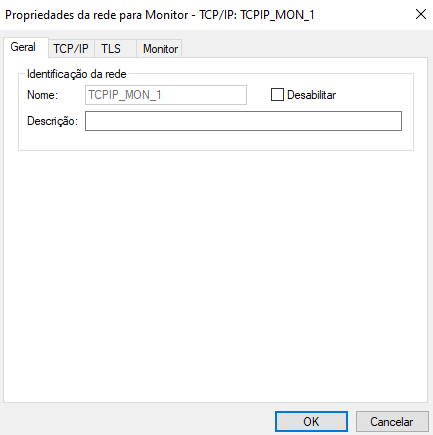
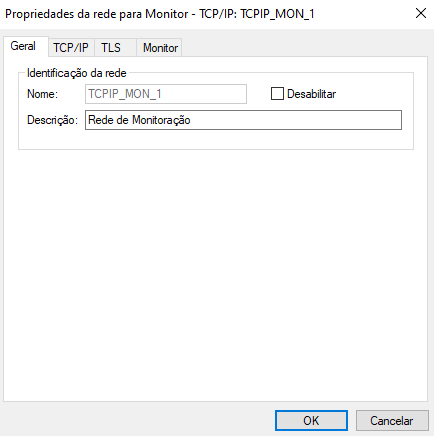
MOD atualizacao e organizacao do stcpserver

diff --git a/content/stcpserver/03-configuracao.md b/content/stcpserver/03-configuracao.md
@@ -15,7 +15,7 @@ draft: false
 
 O programa de configuração do STCP OFTP Server foi instalado na pasta selecionada durante o processo de instalação e pode ser acessado através do menu **Iniciar**. Caso você não tenha alterado a pasta padrão, execute os seguintes passos:
 
-{{< icon "arrow-right-circle" >}} No menu **Iniciar**, **Todos os Programas**, selecione **Riversoft STCP Server Client**.
+{{< icon "arrow-right-circle" >}} No menu **Iniciar** pesquise por **Riversoft STCP OFTP Server Config**.
 
 ![](img/server-config.png)
 
@@ -39,12 +39,9 @@ O programa de configuração pode ser acessado também na pasta **Program** da a
 
 ## Informações gerais
 
-Na guia **Geral** preencha os campos com as informações descritas abaixo.
+Na guia **Geral** preencha os campos com as informações de identificação descritas abaixo.
 
 ![](img/guia-geral.png)
-
-> [!WARNING] Atenção
-> <span style="color:red;">*</span> Parâmetros obrigatórios
 
 | Campos                | Descrição                                                                                                                                                                                                                                                      |
 | :-------------------- | :------------------------------------------------------------------------------------------------------------------------------------------------------------------------------------------------------------------------------------------------------------- |
@@ -56,7 +53,10 @@ Na guia **Geral** preencha os campos com as informações descritas abaixo.
 | Confirmar             | Preencha este campo com a senha do usuário para ser validada.                                                                                                                                                                                                  |
 | Diretório de controle | Este campo informa o nome do diretório de instalação do STCP OFTP Server onde serão armazenadas as configurações dos usuários, logs e arquivos de depuração da comunicação. <br> Obs.: Para a versão STCP OFTP Server, este parâmetro não pode ser modificado. |
 | Diretório de dados    | Preencha este campo com o diretório, onde a estrutura de subdiretórios para envio e recepção dos arquivos de cada usuário deverá ser criada.  <br> Obs.: Esta configuração deve ser alterada antes da criação dos usuários.                                    |
-| Número de série*      | Preencha este campo com o número de série que é disponibilizado. <br>                                                                                                                                                                                          |
+| Número de série*      | Preencha este campo com o número de série que é disponibilizado pela Riversoft. <br>                                                                                                                                                                                          |
+
+> [!WARNING] Atenção
+> <span style="color:red;">*</span> Parâmetros obrigatórios
 ----
 
 
@@ -79,15 +79,15 @@ Nesta guia, você poderá adicionar, remover ou modificar os parâmetros das int
 | Protocolo                   | Descrição                                                                                                                                                                                                                                 |
 | :-------------------------- | :---------------------------------------------------------------------------------------------------------------------------------------------------------------------------------------------------------------------------------------- |
 | OFTP - TCP/IP               | Configura o STCP OFTP Server para utilizar o protocolo de comunicação TCP/IP.                                                                                                                                                             |
-| API DirectLink - HTTP/S     | Configura o STCP Server para comunicar com com a API do Directlink. <br>  <a href="/stcpdirectlink/api/" target="_blank">Acesse a seção de API do Directlink para mais informações</a> {{< icon "arrow-top-right-on-square" >}} &nbsp; |
-| SFTP DirectLink – TCP/IP    | Configura o STCP Server para se comunicar via protocolo SFTP com o Directlink.                                                                                                                                                            |
+| API DirectLink - HTTP/S     | Configura o STCP Server para comunicar com com a API do DirectLink. <br>  <a href="/stcpDirectLink/api/" target="_blank">Acesse a seção de API do DirectLink para mais informações</a> {{< icon "arrow-top-right-on-square" >}} &nbsp; |
+| SFTP DirectLink – TCP/IP    | Configura o STCP Server para se comunicar via protocolo SFTP com o DirectLink.                                                                                                                                                            |
 | Monitor – TCP/IP            | Habilita a rede para supervisão do STCP através do protocolo TCP/IP.                                                                                                                                                                      |
-| Monitor Directlink - TCP/IP | Habilita a rede para supervisão do Directlink através do protocolo TCP/IP.                                                                                                                                                                |
+| Monitor DirectLink - TCP/IP | Habilita a rede para supervisão do DirectLink através do protocolo TCP/IP.                                                                                                                                                                |
 ----
 
 ### Configurar uma porta TLS
 
-{{< icon "arrow-right-circle" >}}Acesse o configurador da aplicação: **Riversoft STCP OFTP Server Config**.
+{{< icon "arrow-right-circle" >}}Acesse o configurador do STCP Server: **Riversoft STCP OFTP Server Config**.
 
 {{< icon "arrow-right-circle" >}}Acesse a guia **Redes** para adicionar as interfaces que ficarão disponíveis para o serviço de transferência e adicione uma interface do serviço de transferência.
 
@@ -99,6 +99,10 @@ Nesta guia, você poderá adicionar, remover ou modificar os parâmetros das int
 
 ![](img/protocolo-oftp.png)
 
+{{< icon "arrow-right-circle" >}}Preencha as informações na guia **Geral** antes de prosseguir.
+
+![](img/guia-geral-porta-tls.png)
+
 {{< icon "arrow-right-circle" >}}Clique na guia **TCP/IP** e configure os parâmetros apresentados.
 
 ![](img/tcp-ip-redes.png)
@@ -107,7 +111,7 @@ Nesta guia, você poderá adicionar, remover ou modificar os parâmetros das int
 
 ![](img/tcp-odette-redes.png)
 
-{{< icon "arrow-right-circle" >}}Clique na guia **TLS**, configure os parâmetros apresentados abaixo e pressione o botão **OK** para finalizar.
+{{< icon "arrow-right-circle" >}}Agora, na guia **TLS**, configure os parâmetros apresentados abaixo e pressione o botão **OK** para finalizar.
 
 ![](img/redes-guia-tls.png)
 
@@ -121,13 +125,13 @@ Os seguintes procedimentos devem ser executados para a geração da chave privat
 
 {{< icon "arrow-right-circle" >}}Utilize o comando abaixo para gerar a chave privativa que será utilizada para criptografia da conexão.
 
-```pshell
+```shell
 genrsa -out[unidade_disco][diretorio_instalação_stcp]\keys\[nome_da_chave].key 1024
 ```
 
 Exemplo:
 
-```pshell
+```shell
 genrsa –out c:\stcpodt\keys\stcp_abcde.key 1024
 ```
 
@@ -135,7 +139,7 @@ genrsa –out c:\stcpodt\keys\stcp_abcde.key 1024
 
 {{< icon "arrow-right-circle" >}}O próximo passo é gerar o Certificado Digital associado à chave gerada anteriormente. Para isso, utilize o comando abaixo.
 
-```pshell
+```shell
 req –new –x509 –key [unidade_disco][diretório_instalação_stcp]\keys\[nome_da_chave].key –out [unidade_disco][diretório_instalação_stcp]\certs\[nome_do_certificado].cer –days 1825 –config ./openssl.cnf
 ```
 
@@ -224,7 +228,7 @@ req –new –x509 –key c:\stcpodt\keys\stcp_interprint.key –out c:\stcpodt\
 
 Em alguns casos, para se obter uma análise mais detalhada de problemas relacionados ao intercâmbio de arquivos, torna-se necessária a depuração dos processos de conexão e transferência, realizadas pelo *STCP OFTP Server*.
 
-Através da configuração do parâmetro *Nível de debug* é possível gerar um arquivo de depuração na pasta DEBUG (Ex. C:\STCPCLT\Debug) do diretório de instalação do STCP.
+Através da configuração do parâmetro *Nível de debug* é possível gerar um arquivo de depuração na pasta DEBUG (Ex. C:\STCPODT\Debug) do diretório de instalação do STCP.
 
 Acesse o STCP OFTP Server Config (Iniciar – Todos os programas – Riversoft STCP OFTP Server). Selecione o usuário desejado na guia Usuários e clique no botão Propriedades Na janela Propriedades do usuário, na guia do protocolo utilizado (Odette, SFTP, FTP, HTTP) altere o valor do campo "Nível de debug" para 63 (outros valores podem ser utilizados – vide Tabela abaixo). 
 
@@ -289,8 +293,49 @@ A tabela a seguir contém a relação entre o nível de detalhamento e as inform
 | Algoritmos                   | Preencha este campo com os nomes dos algoritmos suportados para assinatura digital, hashing e criptografia dos dados. <br> Obs.: Caso este campo não seja configurado, o protocolo TLS será selecionado automaticamente.                                                                                  |
 | Debug                        | Esta opção permite gerar um arquivo de depuração na pasta Debug do diretório de instalação do STCP.                                                                                                                                                                                                       |
 
-
 Pressione o botão **OK** para prosseguir ou **Cancelar** para abandonar sem alterar as configurações.
+
+#### Configuração de Cipher Suites
+
+Para atender às necessidades de troca de informações com segurança através da internet, o STCP utiliza o protocolo TLS (Transport Layer Security), dando suporte à configuração de um conjunto de cifras (cipher suites) utilizados para garantir a autenticidade (Ex. Algoritmos RSA/ECDHE), confidencialidade (Ex. Algoritmos AES/AES128/AES256) e a integridade (Ex. Algoritmos SHA1/SHA256/SHA384).
+
+Os métodos e o conjunto de cifras utilizados devem ser definidos e ajustados com base nas políticas de segurança e preferências específicas da área de segurança de cada organização.
+
+> [!NOTE] Nota
+> A suíte de produtos Riversoft STCP está em constante atualização para cumprir com os mais recentes requisitos de segurança, assim como novas exigências no mercado de File-Transfer (EDI). Dessa forma, recomendamos também a atualização do produto.
+
+#### Atualização de bibliotecas
+
+a) Através do link enviado pela equipe de suporte da Riversoft, faça download do pacote de atualização do produto;
+b) Pare o serviço do STCP OFTP Server através do gerenciador de serviços do seu sistema operacional;
+c) Copie o conteúdo do arquivo compactado (ZIP) para a pasta Program do diretório de instalação do STCP OFTP Server (Ex. C:\STCPODT\Program), substituindo os arquivos atuais;
+d) Inicie ou reinicie o serviço do STCP OFTP Server através do gerenciador de serviços do sistema operacional;
+
+#### Configuração do Cipher Suítes
+
+a) Através do STCP OFTP Server Config (menu Iniciar – Todos os Programas – Riversoft STCP OFTP Server), na guia Redes, selecione a rede segura desejada (Ex. TCPIP_3) e clique no botão Propriedades;
+
+![](img/cipher-suites-01.png)
+
+b) Na janela Propriedades da rede, na guia SSL3/TLS (OpenSSL), será necessário alterar o parâmetro Algoritmos com o conjunto de cifras (cipher suite) escolhido (vide exemplo abaixo).
+
+**ECDHE-RSA-AES256-GCM-SHA384**
+
+![](img/cipher-suites-02.png)
+
+c) Reinicie o serviço do Riversoft STCP OFTP Server através do gerenciador de serviços do sistema operacional.
+
+#### Atualização da biblioteca apiossl.dll
+
+Em algumas situações, caso um cliente ou parceiro utilize uma versão do Riversoft STCP OFTP Client, anterior a 4.0.0-4061, o erro 10809 ou similar poderá ocorrer no momento da conexão.
+
+Nesse caso, também será necessária a atualização da biblioteca APIOSSL.DLL do lado dos clientes ou parceiros que utilizem o Riversoft STCP OFTP. Essa DLL está localizada na pasta Program do diretório de instalação do STCP OFTP Client (Ex. C:\STCPCLT\Program).
+
+a) Através do link enviado pela equipe de suporte da Riversoft, faça o download do pacote de atualização do produto;
+
+b) Copie o conteúdo do arquivo compactado (ZIP) para a pasta Program do diretório de instalação do STCP OFTP Client (Ex. C:\STCPCLT\Program), substituindo os arquivos atuais;
+
+c) Inicie uma nova conexão para validar a comunicação e troca de arquivos. 
 
 ### API DirectLink
 
@@ -349,8 +394,8 @@ Pressione o botão **OK** para prosseguir ou **Cancelar** para abandonar sem alt
 | Campos                      | Descrição                                                                                                 |
 | :-------------------------- | :-------------------------------------------------------------------------------------------------------- |
 | URL de acesso               | Preencha este campo com a URL de requisição.                                                              |
-| Estáticas                   | Preencha este campo com o diretório (caminho completo) onde se encontram páginas estáticas do Directlink. |
-| Templates                   | Preencha este campo com o diretório (caminho completo) onde se encontram os templates do Directlink.      |
+| Estáticas                   | Preencha este campo com o diretório (caminho completo) onde se encontram páginas estáticas do DirectLink. |
+| Templates                   | Preencha este campo com o diretório (caminho completo) onde se encontram os templates do DirectLink.      |
 | Versão TLS                  | Preencha estes campos com a versão mínima e máxima escolhida do TLS.                                      |
 | Headers Customizados (json) | Preencha este campo com os headers customizados no formato json.                                          |
 | Log requisições HTTP/S      | Preencha este campo com o nome do arquivo (caminho completo) onde se encontra o log das requisções https. |
@@ -418,9 +463,9 @@ Pressione o botão **OK** para prosseguir ou **Cancelar** para abandonar sem alt
 
 ### Rede de Monitoração - TCP/IP
 
-Na rede de monitoração, temos o [STCP Console](/stcpserver/utilizacao/#stcp-console), uma rede (Ex. **TCPIP_MON_1**) utilizando o protocolo _Monitor – TCP/IP_ deverá estar previamente criada e configurada, na guia _Redes_, do STCP OFTP Server.
+Na rede de monitoração, temos o [STCP Console](/stcpserver/guias/stcp-console/), uma rede (Ex: TCPIP_MON_1) utilizando o protocolo _Monitor – TCP/IP_ deverá estar previamente criada e configurada, na guia _Redes_, do STCP OFTP Server.
 
-Por padrão da aplicação, para este tipo de rede é utilizada a porta 33050, que poderá ser alterada conforme especificações e/ou características da infraestrutura utilizada.
+Por padrão da aplicação, para este tipo de rede é utilizada a porta **33050**, que poderá ser alterada conforme especificações e/ou características da infraestrutura utilizada.
 
 {{< icon "arrow-right-circle" >}}Acesse o STCP OFTP Server Config (Iniciar - Todos os programas - Riversoft STCP OFTP Server) e na guia _Redes_ clique no botão _Adicionar_ e selecione o protocolo _Monitor – TCP/IP_. Clique no botão _OK_ para confirmar.
 
@@ -430,11 +475,11 @@ Por padrão da aplicação, para este tipo de rede é utilizada a porta 33050, q
 
 ![](img/mon-02.png)
 
-{{< icon "arrow-right-circle" >}}Realize as configurações conforme imagem abaixo.
+{{< icon "arrow-right-circle" >}}Realize as suas configurações de TLS:
 
 ![](img/mon-03.png)
 
-{{< icon "arrow-right-circle" >}}Selecione a guia _Monitor_ e preencha os campos abaixo:
+{{< icon "arrow-right-circle" >}}Por fim, selecione a guia _Monitor_ e preencha os campos abaixo:
 
 ```{filename="Usuário de monitoração"}
 Usuário: stcpmon
@@ -452,74 +497,6 @@ Confirmar: stcpmon
 ![](img/mon-05.png)
 
 {{< icon "arrow-right-circle" >}}Após o reinício do serviço a rede de monitoração _TCPIP_MON_1_ já estará ativa.
-
-<!-- ### Monitor - TCP/IP
-
-{{< icon "arrow-right-circle" >}}Na guia **Geral**, configure as seguintes opções:
-
-![](img/monitor-01.png)
-
-| Campos      | Descrição                                                 |
-| :---------- | :-------------------------------------------------------- |
-| Nome        | Campo com o nome da interface de rede configurada.        |
-| Descrição   | Preencha este campo com a descrição da interface de rede. |
-| Desabilitar | Esta opção assinalada desabilita a interface de rede.     |
----
-
-{{< icon "arrow-right-circle" >}}Na guia **TCP/IP**, configure as seguintes opções:
-
-![](img/monitor-02.png)
-
-| Campos             | Descrição                                                                                                                                                                                                                                                                                                                                                                                             |
-| :----------------- | :---------------------------------------------------------------------------------------------------------------------------------------------------------------------------------------------------------------------------------------------------------------------------------------------------------------------------------------------------------------------------------------------------- |
-| Endereço IP        | Preencha este campo com o endereço TCP/IP ou nome (DNS) da interface local para a qual o serviço STCP OFTP Server deve ser disponibilizado. <br> Obs.: Utilize o endereço 0.0.0.0 para habilitar o serviço sobre todas as interfaces de rede.                                                                                                                                                         |
-| Porta IP           | Preencha este campo com a porta IP da interface local para a qual o serviço STCP OFTP Server deve ser disponibilizado. <br> Obs.: A porta padrão do serviço OFTP é a 3305.                                                                                                                                                                                                                            |
-| Comunicação Segura | Esta opção assinalada habilita a utilização de criptografia na comunicação com o servidor STCP OFTP Server, você pode escolher entre a opção Nativa ou TLS. <br> Obs.: Antes de habilitar esta opção, leia atentamente o capítulo sobre Segurança.                                                                                                                                                    |
-| TLS                | Configura a comunicação segura com criptografia e certificação digital, com a utilização da padronização definida na RFC2246 (TLS). O TLS é comumente encontrado nos servidores de sites seguros (HTTPS) e oferece o maior grau de segurança atualmente disponível. <br> Obs.: Antes de habilitar esta opção, confirme se o servidor com o qual você deseja se comunicar suporta esta característica. |
-| Compatibilidade    | Esta opção possibilita compatibilizar o STCP OFTP Server com diferentes produtos atualmente existentes no mercado.                                                                                                                                                                                                                                                                                    |
-| RFC2204            | Esta opção de compatibilidade permite a comunicação do STCP OFTP Server com outros produtos que seguem a recomendação RFC2204.                                                                                                                                                                                                                                                                        |
-| RFC1006/RFC1086    | Esta opção de compatibilidade permite a comunicação do STCP OFTP Server através de gateways de comunicação TCP-IP/X.25, que seguem a recomendação RFC1006/1086.                                                                                                                                                                                                                                       |
-| RVS*               | Esta opção de compatibilidade permite a comunicação do STCP OFTP Server com o produto RVS*. <br> Obs.: Esta opção não deve ser habilitada quando o servidor RVS* for uma versão do mainframe (grande porte).                                                                                                                                                                                          |
-| X.25/Router        | Esta opção de compatibilidade permite a comunicação do STCP OFTP Server através de roteadores com suporte à comunicação X.25 através de socket. <br> Obs.: Consulte a Riversoft sobre esta configuração se você estiver em dúvidas.                                                                                                                                                                   |
-| XFB*/SSL           | Habilita a compatibilidade do STCP com o XFB em conexões seguras SSL.                                                                                                                                                                                                                                                                                                                                 |
-| Compressão GZIP    | Esta opção assinalada habilita a utilização da compressão GZIP onthe-fly (durante a transferência).  <br> Obs.: Antes de habilitar esta opção, confirme se o servidor com o qual você deseja se comunicar suporta esta característica.                                                                                                                                                                |
-----
-
-> [!WARNING] Aviso: 
-> *As marcas citadas são propriedade dos seus respectivos donos.
-
-{{< icon "arrow-right-circle" >}}Na guia **TLS**, configure as seguintes opções:
-
-![](img/monitor-03.png)
-
-| Campos                       | Descrição                                                                                                                                                                                                                                                                                                 |
-| :--------------------------- | :-------------------------------------------------------------------------------------------------------------------------------------------------------------------------------------------------------------------------------------------------------------------------------------------------------- |
-| Chave Privativa              | As opções deste grupo estão relacionadas às chaves pública e privada utilizadas pelo protocolo TLS para autenticação e criptografia dos dados. <br> Obs.: O arquivo da chave privativa deve estar no formato PKCS#12 e os certificados, no formato DER ou PEM.                                            |
-| Chave                        | Preencha este campo com o nome do arquivo (caminho completo) onde se encontra instalada a chave privativa.                                                                                                                                                                                                |
-| Certificado                  | Preencha este campo com o nome do arquivo (caminho completo) onde se encontra instalado o certificado digital (X509) associado à chave privativa.                                                                                                                                                         |
-| Senha                        | Preencha este campo com a senha que protege o arquivo de chave privativa.                                                                                                                                                                                                                                 |
-| Confirmar                    | Preencha este campo com a senha informada no campo senha para validação.                                                                                                                                                                                                                                  |
-| Certificados CA (Autoridade) | As opções deste grupo estão relacionadas aos certificados digitais das autoridades certificadoras (CA) que servirão para validar a autenticidade do certificado apresentado pelo servidor. <br> Obs.: O arquivo da chave privativa deve estar no formato PKCS#12 e os certificados no formato DER ou PEM. |
-| Arquivo                      | Preencha este campo com o nome do arquivo (caminho completo) onde se encontra instalado o certificado digital (X509) contendo a chave pública que assina o certificado apresentado pelo servidor.                                                                                                         |
-| Diretório                    | Preencha este campo com o nome do diretório (caminho completo) onde se encontram instalados os certificados digitais (X509) contendo a chave pública que assina o certificado apresentado pelo servidor.                                                                                                  |
-| Algoritmos                   | Preencha este campo com os nomes dos algoritmos suportados para assinatura digital, hashing e criptografia dos dados. <br> Obs.: Caso este campo não seja configurado, o protocolo TLS será selecionado automaticamente.                                                                                  |
-| Debug                        | Esta opção permite gerar um arquivo de depuração na pasta Debug do diretório de instalação do STCP.                                                                                                                                                                                                       |
-----
-
-{{< icon "arrow-right-circle" >}}Na guia **Monitor**, configure as seguintes opções:
-
-![](img/monitor-04.png)
-
-| Campos                   | Descrição                                                                                                                         |
-| :----------------------- | :-------------------------------------------------------------------------------------------------------------------------------- |
-| Usuário                  | Preencha este campo com o nome do usuário da rede de supervisão.                                                                  |
-| Senha                    | Preencha este campo com a senha do usuário que deve ser utilizada pelo rede de supervisão.                                        |
-| Confirmar                | Preencha este campo com a senha informada no campo senha para validação.                                                          |
-| Intervalo de requisições | Esta opção assinalada o tempo (em segundos) de intervalo entre as requisições feitas.                                             |
-| Executar comando externo | Esta opção habilita a execução de um comando externo dentro do STCP <br> Exemplo: ````notepad````Abrir bloco de notas no Windows. |
-----
-
-Pressione o botão **OK** para prosseguir ou **Cancelar** para abandonar sem alterar as configurações. -->
 
 ### Rede de Monitoração - DirectLink
 
